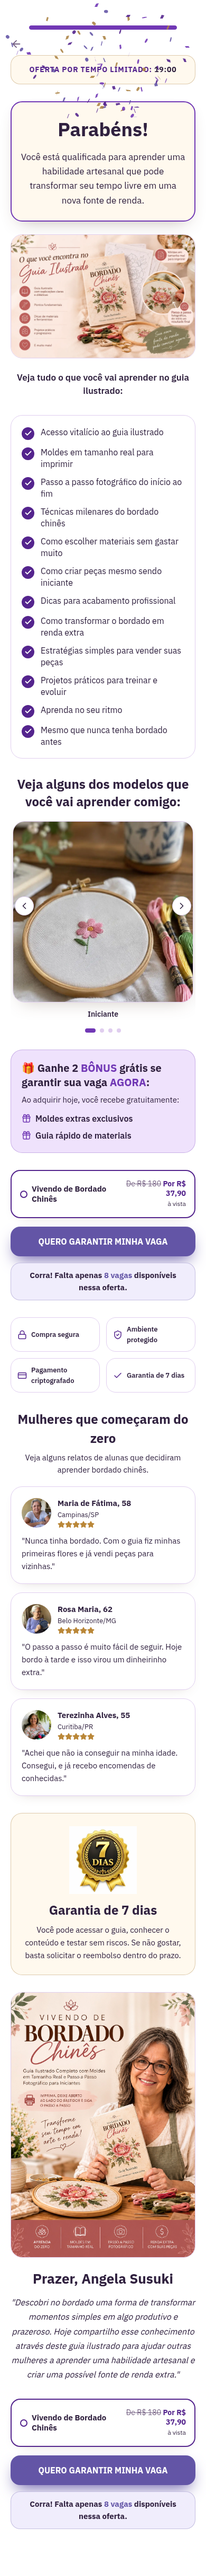
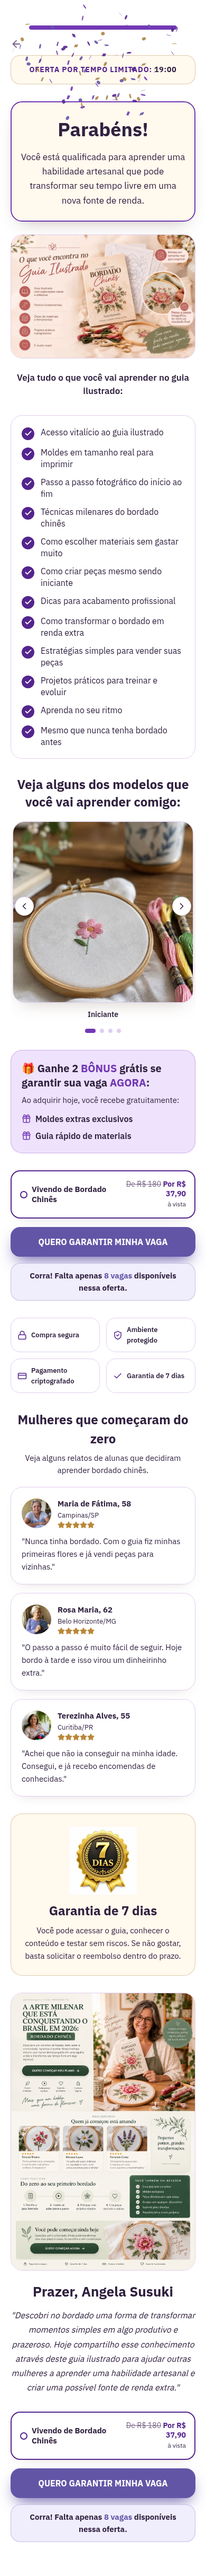
Use uploaded Angela Susuki image on the plan page

diff --git a/src/pages/Plan.jsx b/src/pages/Plan.jsx
@@ -79,7 +79,7 @@ var b = createLucideIcon(`credit-card`, [
     ],
   ]),
   authorImage = {
-    url: `/images/capa-guia-bordado-chines.jpeg`,
+    url: `/images/angela-susuki.png`,
   },
   guideImage = {
     url: `/images/guia-ilustrado.webp`,
@@ -620,7 +620,7 @@ function PlanContent() {
       <section className={`text-center`}>
         <img
           src={authorImage.url}
-          alt={`Angela Susuki segurando o guia Vivendo de Bordado Chinês`}
+          alt={`Apresentação do bordado chinês com Angela Susuki`}
           width={1024}
           height={1536}
           loading={`lazy`}

diff --git a/README.md b/README.md
@@ -43,7 +43,7 @@ As respostas e a etapa atual são guardadas na sessão do navegador. É possíve
 - `src/data/questions.js`: todas as perguntas e opções.
 - `src/pages/`: componentes React editáveis de cada página.
 - `src/styles/reference.css`: estilos de layout da referência, preservados para manter as proporções.
-- `public/images/`: 22 imagens locais da referência.
+- `public/images/`: imagens locais da referência e a nova apresentação de Angela Susuki em `angela-susuki.png`, enviada pelo usuário e exibida na página do plano.
 - `src/styles/fonts.css`: fontes distribuídas localmente via pacotes Fontsource.
 
 A interface pública foi reconstruída a partir do HTML, CSS e módulos servidos pelo site de referência, com dependências de React, roteamento e ícones instaladas pelo npm. Não há iframe, proxy do site original nem necessidade de acessá-lo durante a execução do quiz.
